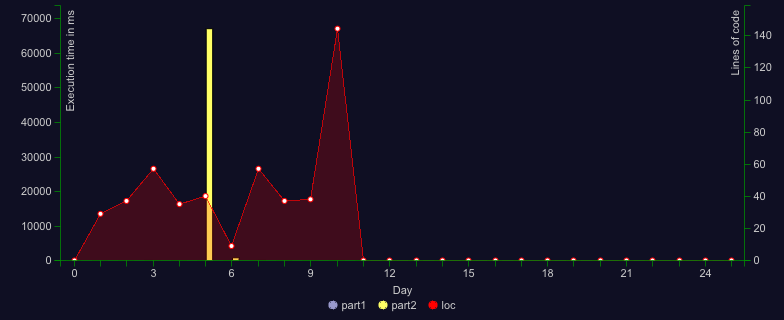
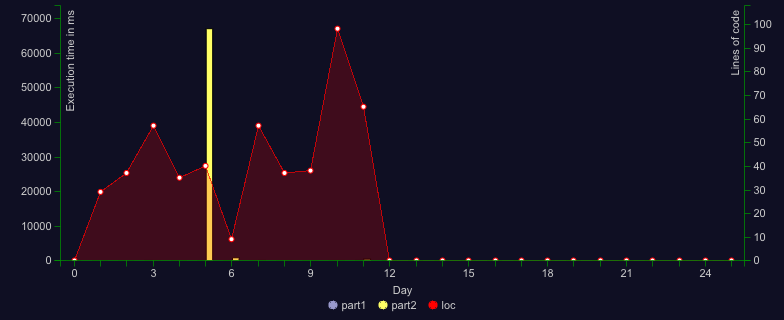
day 11: done

diff --git a/day-11/index.ts b/day-11/index.ts
@@ -1,0 +1,53 @@
+import { Examples, Solution } from '~types'
+import { pipe, repeat, transpose, xprod } from 'ramda'
+
+const expandRow = (universe: string[][]): string[][] =>
+  universe.map((row) => (row.some((c) => c === '#') ? row : repeat('*', row.length)))
+const expand = pipe(expandRow, transpose, expandRow, transpose)
+
+export const parse = (input: string) => expand(input.split('\n').map((line) => line.split('')))
+
+const solve =
+  (n = 2) =>
+  (input: ReturnType<typeof parse>) => {
+    const galaxies = input.flatMap((line, y) =>
+      line.flatMap((c, x) => (c === '#' ? [[x, y]] : [])),
+    ) as [number, number][]
+    const pairs = xprod(galaxies, galaxies)
+
+    return (
+      pairs.reduce((sum, [[px, py], [qx, qy]]) => {
+        let [x, y] = [px, py]
+        while (x !== qx || y !== qy) {
+          if (x !== qx) x += px > qx ? -1 : 1
+          else y += py > qy ? -1 : 1
+
+          sum += input[y][x] === '*' ? n : 1
+        }
+        return sum
+      }, 0) / 2
+    )
+  }
+export const p1: Solution<typeof parse> = solve(2)
+
+export const p2: Solution<typeof parse> = solve(1000000)
+
+export const p1ex: Examples = [
+  {
+    expected: 374,
+    input: `
+    ...#......
+    .......#..
+    #.........
+    ..........
+    ......#...
+    .#........
+    .........#
+    ..........
+    .......#..
+    #...#.....
+  `,
+  },
+]
+
+export const p2ex: Examples = [{ expected: 82000210, input: p1ex[0].input }]

diff --git a/day-11/index.test.ts b/day-11/index.test.ts
@@ -1,0 +1,6 @@
+import { expect, test } from 'bun:test'
+import { parse } from './index.ts'
+
+test(`parse`, () => {
+  expect(parse('')).toBeTruthy()
+})

diff --git a/README.md b/README.md
@@ -20,8 +20,8 @@
 [![Day](https://badgen.net/badge/07/%E2%98%85%E2%98%85/green)](day-07/index.ts)
 [![Day](https://badgen.net/badge/08/%E2%98%85%E2%98%85/green)](day-08/index.ts)
 [![Day](https://badgen.net/badge/09/%E2%98%85%E2%98%85/green)](day-09/index.ts)
-[![Day](https://badgen.net/badge/10/%E2%98%85%E2%98%85/green)](day-10/index_ok.ts)
-![Day](https://badgen.net/badge/11/%E2%98%86%E2%98%86/gray)
+[![Day](https://badgen.net/badge/10/%E2%98%85%E2%98%85/green)](day-10/index.ts)
+[![Day](https://badgen.net/badge/11/%E2%98%85%E2%98%85/green)](day-11/index.ts)
 ![Day](https://badgen.net/badge/12/%E2%98%86%E2%98%86/gray)
 ![Day](https://badgen.net/badge/13/%E2%98%86%E2%98%86/gray)
 ![Day](https://badgen.net/badge/14/%E2%98%86%E2%98%86/gray)
@@ -117,9 +117,9 @@ Both parts: 26.76 ms
 
 ```
 Day 11
-Time part 1: -
-Time part 2: -
-Both parts: -
+Time part 1: 13.43 ms
+Time part 2: 412.9 ms
+Both parts: 426.34 ms
 ```
 
 ```
@@ -221,8 +221,8 @@ Both parts: -
 ```
 
 ```
-Total stars: 20/50
-Total time: 67863.46 ms
+Total stars: 22/50
+Total time: 68289.8 ms
 ```
 
 <!--/RESULTS-->
